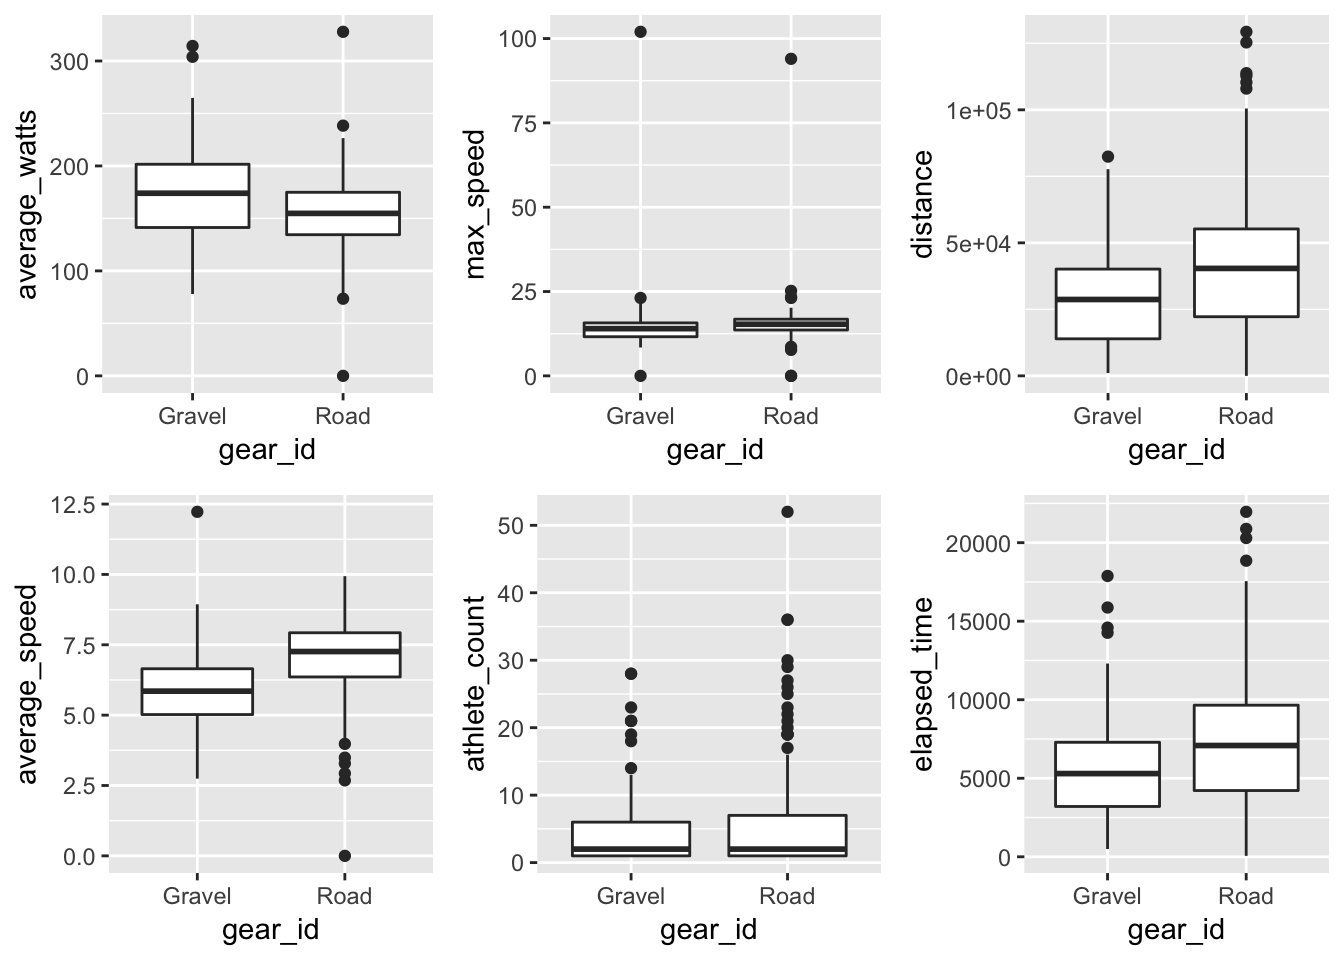
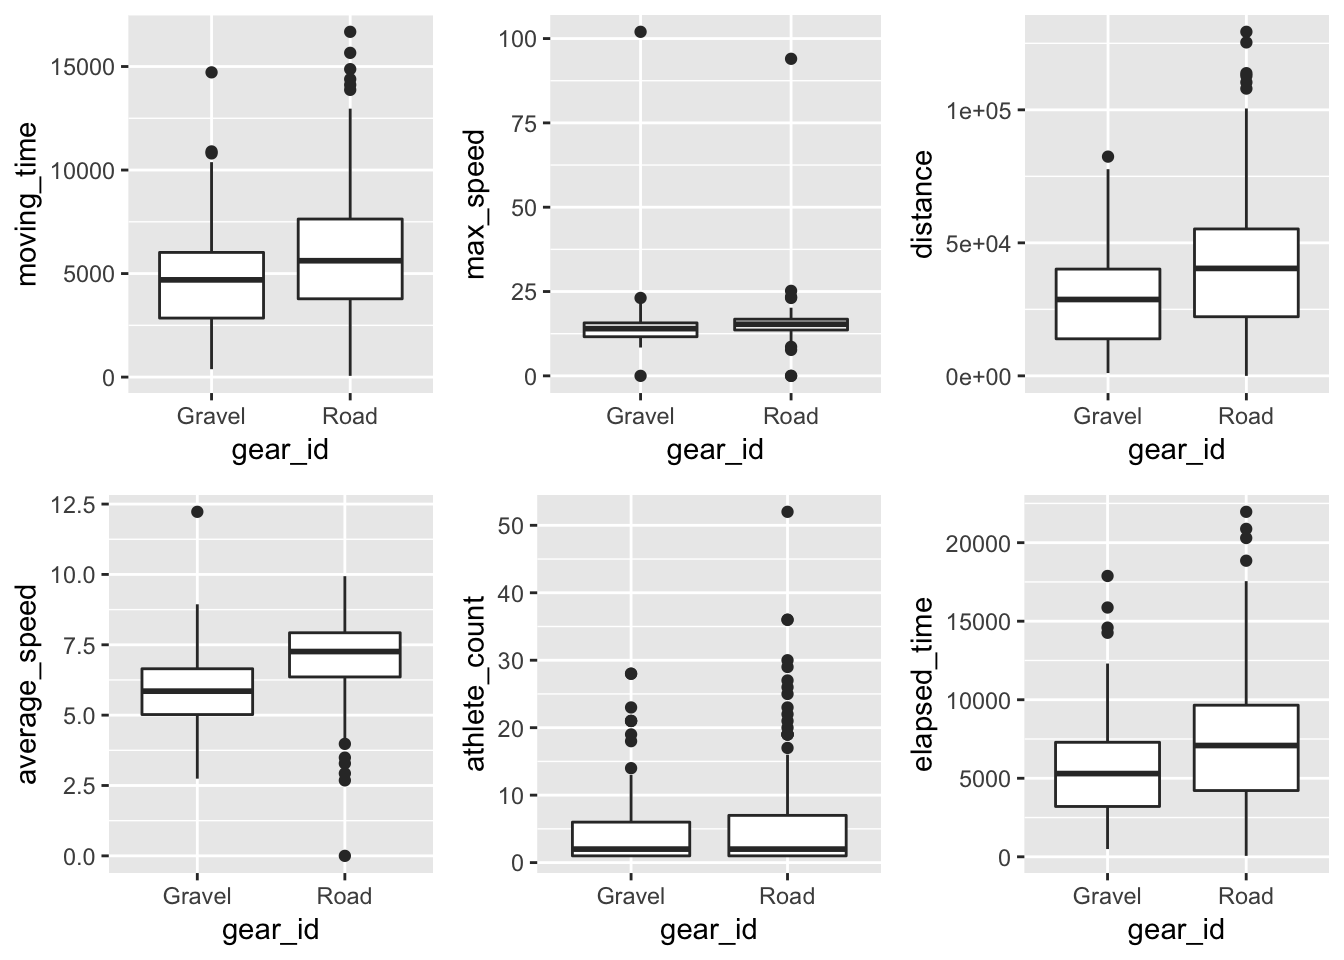
edits

Changed region(s): [[0.0, 0.0, 0.3125, 0.5]]

diff --git a/public/post/which-bike-1/index.html b/public/post/which-bike-1/index.html
@@ -110,7 +110,7 @@ Every month, Google gives me a summary of how much much I’ve traveled. It’s 
 <div id="getting-my-rides-from-strava" class="section level2">
 <h2>Getting my rides from Strava</h2>
 <p>Retrieving my rides from Strava involved using their API. <a href="http://www.open-thoughts.com/2017/01/the-quantified-cyclist-analysing-strava-data-using-r/">Here’s a good post</a> detailing the steps for ‘creating an application’ to allow you to get your data. The API response is in JSON format, but the <code>jsonlite</code> package makes it easy to flatten.</p>
-<p>The max number of activities per API request is 200, so i needed to make a few requests to get a large number of rides. Combinining the two into a single data frame wasn’t trivial, as the tables had a different number of variables.</p>
+<p>The max number of activities per API request is 200, so i needed to make a couple of requests to get a large number of rides. Combinining the two into a single data frame wasn’t trivial, as the tables had a different number of variables.</p>
 <pre class="r"><code>token &lt;- Sys.getenv(&quot;token&quot;)
 
 stuff &lt;- paste0(&quot;https://www.strava.com/api/v3/athlete/activities?access_token=&quot;,token,&quot;&amp;per_page=200&amp;page=1&quot;) %&gt;% fromJSON(flatten = TRUE)
@@ -145,12 +145,12 @@ names1 %&gt;% anti_join(names2) %&gt;% kable()</code></pre>
 </div>
 <div id="exploring" class="section level2">
 <h2>Exploring</h2>
-<p>There are a lot of features of a Strava ride. I decided to focus on those that I had the most intuition around.</p>
+<p>There are a lot of features of a Strava ride. I decided to focus on those that I had the most intuition around: moving time, elapsed time, distance, average speed, athlete count (group rides), and max speed.</p>
 <div id="htmlwidget-1" style="width:100%;height:auto;" class="datatables html-widget"></div>
 <script type="application/json" data-for="htmlwidget-1">{"x":{"filter":"none","data":[["1","2","3","4","5","6","7","8","9","10","11","12","13","14","15","16","17","18","19","20","21","22","23","24","25","26","27","28","29","30","31","32","33","34","35","36","37","38","39","40","41","42","43","44","45","46","47","48","49","50","51","52","53","54","55","56"],["resource_state","name","distance","moving_time","elapsed_time","total_elevation_gain","type","workout_type","id","external_id","upload_id","start_date","start_date_local","timezone","utc_offset","start_latlng","end_latlng","location_city","location_state","location_country","start_latitude","start_longitude","achievement_count","kudos_count","comment_count","athlete_count","photo_count","trainer","commute","manual","private","visibility","flagged","gear_id","from_accepted_tag","upload_id_str","average_speed","max_speed","average_temp","average_watts","kilojoules","device_watts","has_heartrate","heartrate_opt_out","display_hide_heartrate_option","elev_high","elev_low","pr_count","total_photo_count","has_kudoed","athlete.id","athlete.resource_state","map.id","map.summary_polyline","map.resource_state","year"]],"container":"<table class=\"display\">\n  <thead>\n    <tr>\n      <th> <\/th>\n      <th>Ride Attribute<\/th>\n    <\/tr>\n  <\/thead>\n<\/table>","options":{"pageLength":5,"order":[],"autoWidth":false,"orderClasses":false,"columnDefs":[{"orderable":false,"targets":0}],"lengthMenu":[5,10,25,50,100]}},"evals":[],"jsHooks":[]}</script>
 <p><br></p>
 <pre class="r"><code>library(cowplot)
-rides %&gt;% ggplot(aes(y=average_watts,x=gear_id)) + geom_boxplot() -&gt;p1
+rides %&gt;% ggplot(aes(y=moving_time,x=gear_id)) + geom_boxplot() -&gt;p1
 rides %&gt;% ggplot(aes(y=max_speed,x=gear_id)) + geom_boxplot() -&gt; p2
 rides %&gt;% ggplot(aes(y=distance,x=gear_id)) + geom_boxplot() -&gt; p3
 rides %&gt;% ggplot(aes(y=average_speed,x=gear_id)) + geom_boxplot() -&gt; p4

diff --git a/content/post/2019-09-22-which-bike-1.html b/content/post/2019-09-22-which-bike-1.html
@@ -32,7 +32,7 @@ Every month, Google gives me a summary of how much much I’ve traveled. It’s 
 <div id="getting-my-rides-from-strava" class="section level2">
 <h2>Getting my rides from Strava</h2>
 <p>Retrieving my rides from Strava involved using their API. <a href="http://www.open-thoughts.com/2017/01/the-quantified-cyclist-analysing-strava-data-using-r/">Here’s a good post</a> detailing the steps for ‘creating an application’ to allow you to get your data. The API response is in JSON format, but the <code>jsonlite</code> package makes it easy to flatten.</p>
-<p>The max number of activities per API request is 200, so i needed to make a few requests to get a large number of rides. Combinining the two into a single data frame wasn’t trivial, as the tables had a different number of variables.</p>
+<p>The max number of activities per API request is 200, so i needed to make a couple of requests to get a large number of rides. Combinining the two into a single data frame wasn’t trivial, as the tables had a different number of variables.</p>
 <pre class="r"><code>token &lt;- Sys.getenv(&quot;token&quot;)
 
 stuff &lt;- paste0(&quot;https://www.strava.com/api/v3/athlete/activities?access_token=&quot;,token,&quot;&amp;per_page=200&amp;page=1&quot;) %&gt;% fromJSON(flatten = TRUE)
@@ -67,12 +67,12 @@ names1 %&gt;% anti_join(names2) %&gt;% kable()</code></pre>
 </div>
 <div id="exploring" class="section level2">
 <h2>Exploring</h2>
-<p>There are a lot of features of a Strava ride. I decided to focus on those that I had the most intuition around.</p>
+<p>There are a lot of features of a Strava ride. I decided to focus on those that I had the most intuition around: moving time, elapsed time, distance, average speed, athlete count (group rides), and max speed.</p>
 <div id="htmlwidget-1" style="width:100%;height:auto;" class="datatables html-widget"></div>
 <script type="application/json" data-for="htmlwidget-1">{"x":{"filter":"none","data":[["1","2","3","4","5","6","7","8","9","10","11","12","13","14","15","16","17","18","19","20","21","22","23","24","25","26","27","28","29","30","31","32","33","34","35","36","37","38","39","40","41","42","43","44","45","46","47","48","49","50","51","52","53","54","55","56"],["resource_state","name","distance","moving_time","elapsed_time","total_elevation_gain","type","workout_type","id","external_id","upload_id","start_date","start_date_local","timezone","utc_offset","start_latlng","end_latlng","location_city","location_state","location_country","start_latitude","start_longitude","achievement_count","kudos_count","comment_count","athlete_count","photo_count","trainer","commute","manual","private","visibility","flagged","gear_id","from_accepted_tag","upload_id_str","average_speed","max_speed","average_temp","average_watts","kilojoules","device_watts","has_heartrate","heartrate_opt_out","display_hide_heartrate_option","elev_high","elev_low","pr_count","total_photo_count","has_kudoed","athlete.id","athlete.resource_state","map.id","map.summary_polyline","map.resource_state","year"]],"container":"<table class=\"display\">\n  <thead>\n    <tr>\n      <th> <\/th>\n      <th>Ride Attribute<\/th>\n    <\/tr>\n  <\/thead>\n<\/table>","options":{"pageLength":5,"order":[],"autoWidth":false,"orderClasses":false,"columnDefs":[{"orderable":false,"targets":0}],"lengthMenu":[5,10,25,50,100]}},"evals":[],"jsHooks":[]}</script>
 <p><br></p>
 <pre class="r"><code>library(cowplot)
-rides %&gt;% ggplot(aes(y=average_watts,x=gear_id)) + geom_boxplot() -&gt;p1
+rides %&gt;% ggplot(aes(y=moving_time,x=gear_id)) + geom_boxplot() -&gt;p1
 rides %&gt;% ggplot(aes(y=max_speed,x=gear_id)) + geom_boxplot() -&gt; p2
 rides %&gt;% ggplot(aes(y=distance,x=gear_id)) + geom_boxplot() -&gt; p3
 rides %&gt;% ggplot(aes(y=average_speed,x=gear_id)) + geom_boxplot() -&gt; p4
